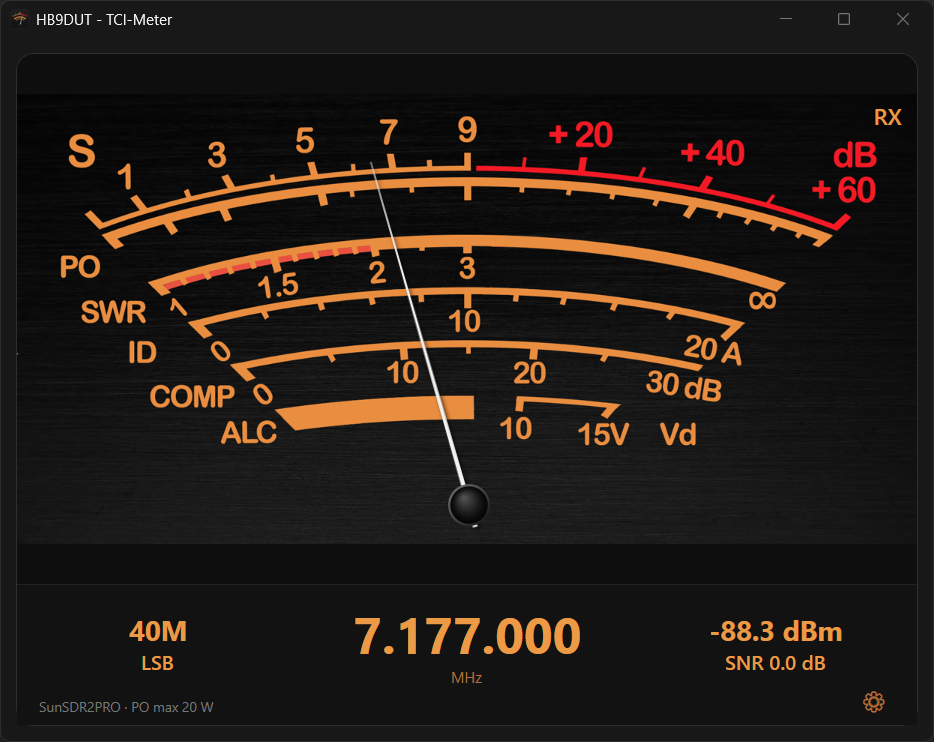
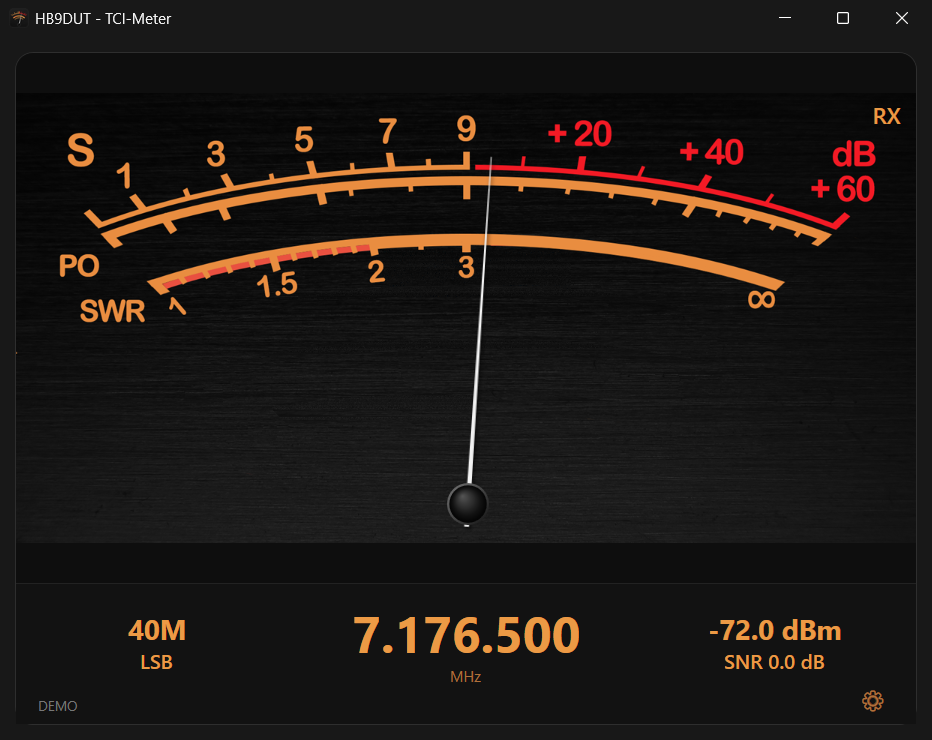
README: Screenshots fuer dunkles und helles Design

diff --git a/README.de.md b/README.de.md
@@ -9,7 +9,8 @@ Das Meter zeigt im **Empfang** den S-Wert und im **Senden** (auch bei Tune) wahl
 Darunter stehen Band, Mode, Frequenz, Pegel und SNR. Die Daten kommen live über TCI.
 
 <p align="center">
-  <img src="docs/screenshot.png" alt="TCI-Meter mit S-Meter-Anzeige im Empfang auf 40 m" width="620">
+  <img src="docs/screenshot.png" alt="TCI-Meter, dunkles Design" width="49%">
+  <img src="docs/screenshot-light.png" alt="TCI-Meter, helles Design" width="49%">
 </p>
 
 ## Installation
@@ -41,6 +42,7 @@ sobald der Server erreichbar ist.
 - **Einstellungen:** Zahnrad unten rechts oder Rechtsklick auf das Meter.
   - *Rufzeichen* – erscheint im Fenstertitel («HB9XYZ - TCI-Meter»)
   - *Sprache* – Deutsch oder Englisch; *Auto* folgt der Windows-Anzeigesprache
+  - *Darstellung* – dunkles oder helles Zifferblatt und Fenster
   - *Host / Port* des TCI-Servers
   - *Receiver / Kanal* – welcher Empfänger und welches VFO angezeigt werden (0 = A, 1 = B)
   - *PO max (W)* – Vollausschlag der Leistungsanzeige, passend zur Sendeleistung des Geräts

diff --git a/README.md b/README.md
@@ -10,7 +10,8 @@ output power or the SWR, as you prefer. Band, mode, frequency, signal level and 
 All data is read live over TCI.
 
 <p align="center">
-  <img src="docs/screenshot.png" alt="TCI-Meter showing an S-meter reading while receiving on 40 m" width="620">
+  <img src="docs/screenshot.png" alt="TCI-Meter, dark theme" width="49%">
+  <img src="docs/screenshot-light.png" alt="TCI-Meter, light theme" width="49%">
 </p>
 
 ## Installation
@@ -41,6 +42,7 @@ server is reachable.
 - **Settings:** gear icon at the bottom right, or right-click the meter.
   - *Callsign* – shown in the window title ("HB9XYZ - TCI-Meter")
   - *Language* – English or German; *Auto* follows the Windows display language
+  - *Theme* – dark or light dial and window
   - *Host / Port* of the TCI server
   - *Receiver / Channel* – which receiver and VFO are displayed (0 = A, 1 = B)
   - *PO max (W)* – full-scale value of the power reading, matching your radio's output power
